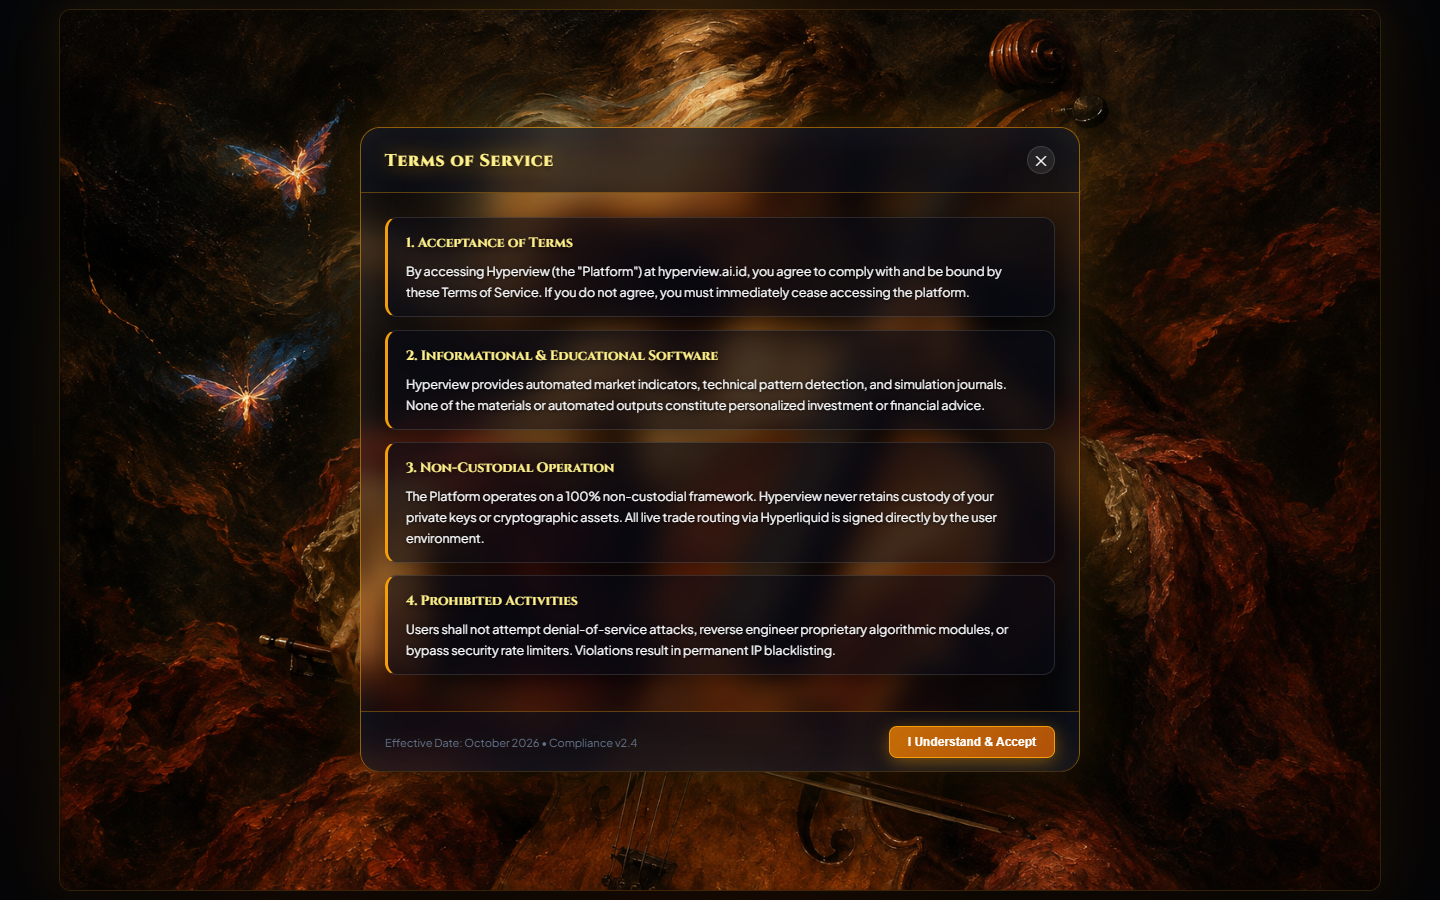
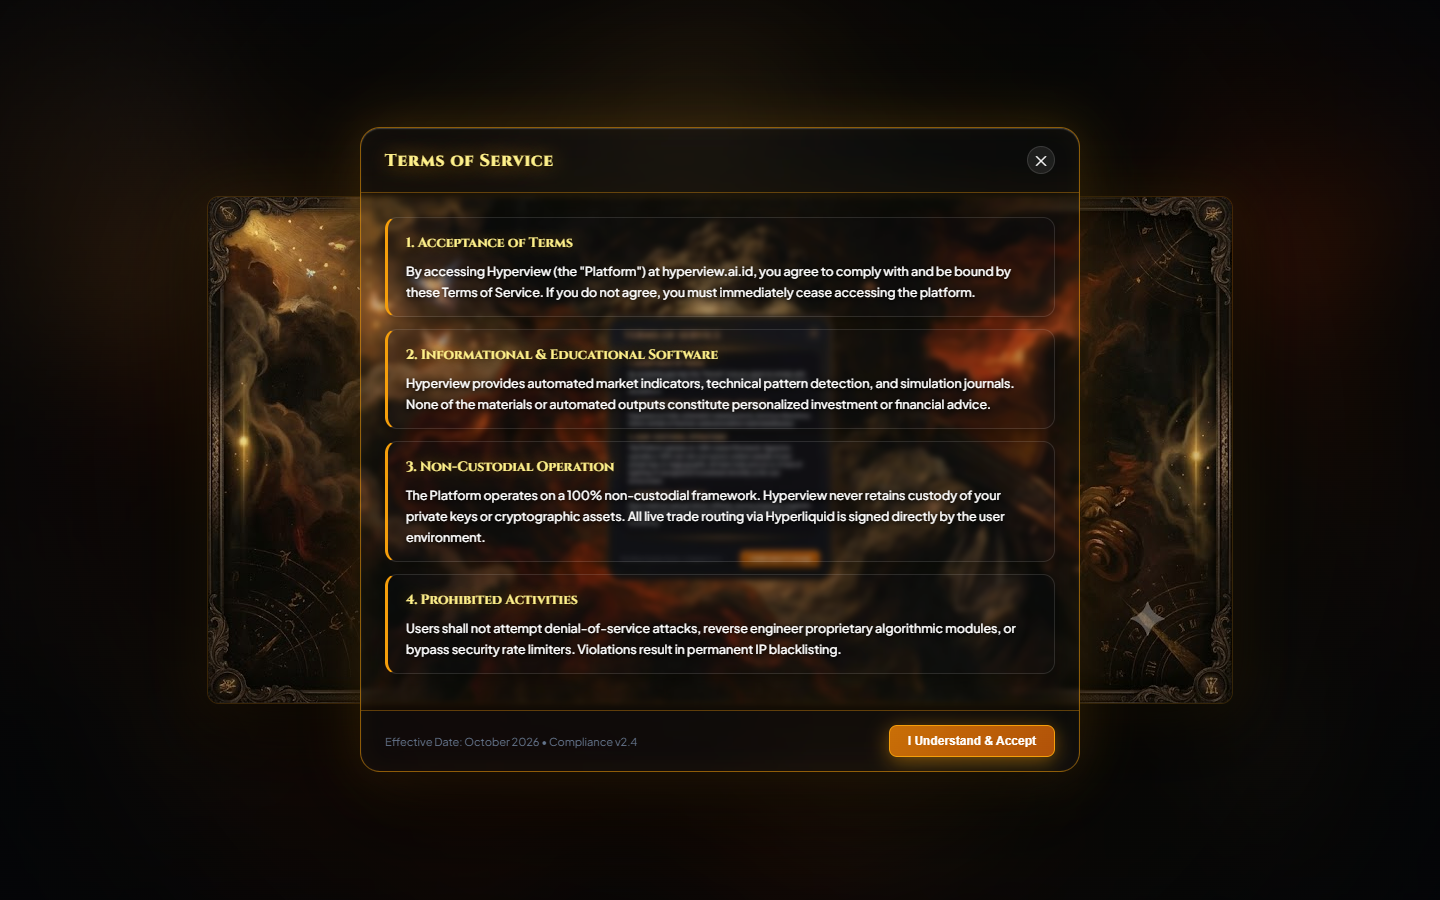
feat(terms): Apply ultra-translucent frosted glassmorphism to Terms modal and test user celestial mockup

diff --git a/src/views/loginPage.js b/src/views/loginPage.js
@@ -499,7 +499,7 @@ function getLoginPageHtml(config = {}) {
     .terms-ambient-layer {
       position: absolute;
       inset: -40px;
-      background-image: url('/public/terms_bg_art.png');
+      background-image: url('/public/terms_art_user_v3.png');
       background-position: center center;
       background-size: cover;
       filter: blur(55px) brightness(0.55) saturate(1.5);
@@ -553,26 +553,25 @@ function getLoginPageHtml(config = {}) {
       display: flex;
     }
 
+    /* ULTRA-TRANSLUCENT FROSTED GLASS MODAL (SEE-THROUGH ARTWORK) */
     .modal-dialog-box.terms-art-glass {
       position: relative;
       z-index: 3;
-      background: rgba(8, 12, 22, 0.35) !important;
-      backdrop-filter: blur(14px) saturate(1.3) !important;
-      -webkit-backdrop-filter: blur(14px) saturate(1.3) !important;
+      background: rgba(10, 14, 24, 0.12) !important;
+      backdrop-filter: blur(3px) saturate(1.15) !important;
+      -webkit-backdrop-filter: blur(3px) saturate(1.15) !important;
       border: 1px solid rgba(245, 158, 11, 0.55) !important;
       border-radius: 20px !important;
-      box-shadow: 0 28px 80px rgba(0, 0, 0, 0.75), 0 0 50px rgba(245, 158, 11, 0.3), inset 0 0 35px rgba(255, 255, 255, 0.08) !important;
+      box-shadow: 0 28px 80px rgba(0, 0, 0, 0.65), 0 0 50px rgba(245, 158, 11, 0.25), inset 0 1px 1px rgba(255, 255, 255, 0.25), inset 0 0 25px rgba(245, 158, 11, 0.06) !important;
       max-width: 720px !important;
     }
     .modal-dialog-box.terms-art-glass .modal-header-strip {
-      background: rgba(8, 12, 22, 0.42) !important;
-      backdrop-filter: blur(12px) !important;
-      -webkit-backdrop-filter: blur(12px) !important;
+      background: rgba(10, 14, 24, 0.2) !important;
       border-bottom: 1px solid rgba(245, 158, 11, 0.35) !important;
     }
     .modal-dialog-box.terms-art-glass .modal-headline-text {
       color: #fef08a !important;
-      text-shadow: 0 0 20px rgba(245, 158, 11, 0.75), 0 2px 6px rgba(0, 0, 0, 0.85) !important;
+      text-shadow: 0 0 20px rgba(245, 158, 11, 0.8), 0 2px 8px rgba(0, 0, 0, 0.95) !important;
       font-size: 17px !important;
       letter-spacing: 0.8px !important;
     }
@@ -580,13 +579,11 @@ function getLoginPageHtml(config = {}) {
       background: transparent !important;
     }
     .modal-dialog-box.terms-art-glass .modal-footer-strip {
-      background: rgba(8, 12, 22, 0.48) !important;
-      backdrop-filter: blur(12px) !important;
-      -webkit-backdrop-filter: blur(12px) !important;
+      background: rgba(10, 14, 24, 0.25) !important;
       border-top: 1px solid rgba(245, 158, 11, 0.35) !important;
     }
     .modal-dialog-box.terms-art-glass .btn-modal-accept {
-      background: linear-gradient(135deg, rgba(217, 119, 6, 0.9), rgba(180, 83, 9, 0.98)) !important;
+      background: linear-gradient(135deg, rgba(217, 119, 6, 0.92), rgba(180, 83, 9, 0.98)) !important;
       border: 1px solid #f59e0b !important;
       box-shadow: 0 4px 20px rgba(245, 158, 11, 0.5) !important;
       color: #fff !important;
@@ -598,19 +595,17 @@ function getLoginPageHtml(config = {}) {
       transform: translateY(-1px);
     }
     .terms-section-card {
-      background: rgba(6, 9, 18, 0.38);
-      backdrop-filter: blur(8px);
-      -webkit-backdrop-filter: blur(8px);
+      background: rgba(8, 12, 22, 0.12);
       border: 1px solid rgba(255, 255, 255, 0.12);
       border-left: 3px solid #f59e0b;
       border-radius: 12px;
       padding: 14px 18px;
       margin-bottom: 12px;
-      box-shadow: 0 6px 20px rgba(0, 0, 0, 0.4);
+      box-shadow: 0 4px 16px rgba(0, 0, 0, 0.35);
       transition: all 0.2s ease;
     }
     .terms-section-card:hover {
-      background: rgba(6, 9, 18, 0.55);
+      background: rgba(8, 12, 22, 0.24);
       border-color: rgba(245, 158, 11, 0.45);
       transform: translateY(-1px);
     }
@@ -619,14 +614,15 @@ function getLoginPageHtml(config = {}) {
       color: #fef08a !important;
       font-size: 13.5px !important;
       font-weight: 700 !important;
-      text-shadow: 0 2px 8px rgba(0, 0, 0, 0.95) !important;
+      text-shadow: 0 2px 8px rgba(0, 0, 0, 0.95), 0 0 12px rgba(245, 158, 11, 0.5) !important;
     }
     .terms-section-card p {
       margin: 0 !important;
-      color: #f8fafc !important;
+      color: #ffffff !important;
       font-size: 12.5px !important;
       line-height: 1.65;
-      text-shadow: 0 1px 4px rgba(0, 0, 0, 0.95) !important;
+      text-shadow: 0 1px 4px rgba(0, 0, 0, 0.95), 0 2px 8px rgba(0, 0, 0, 0.9) !important;
+      font-weight: 500;
     }
 
     .modal-header-strip {
@@ -1101,7 +1097,7 @@ function getLoginPageHtml(config = {}) {
     <div class="terms-ambient-layer" id="terms-ambient-bg"></div>
     <div class="terms-ambient-vignette" id="terms-ambient-vignette"></div>
     <div class="terms-art-center-canvas" id="terms-art-canvas">
-      <img src="/public/terms_bg_art.png" alt="Baroque Allegory of Music" class="terms-full-art-img" id="terms-art-img">
+      <img src="/public/terms_art_user_v3.png" alt="Baroque Allegory of Music" class="terms-full-art-img" id="terms-art-img">
     </div>
     <div class="modal-dialog-box">
       <div class="modal-header-strip">
